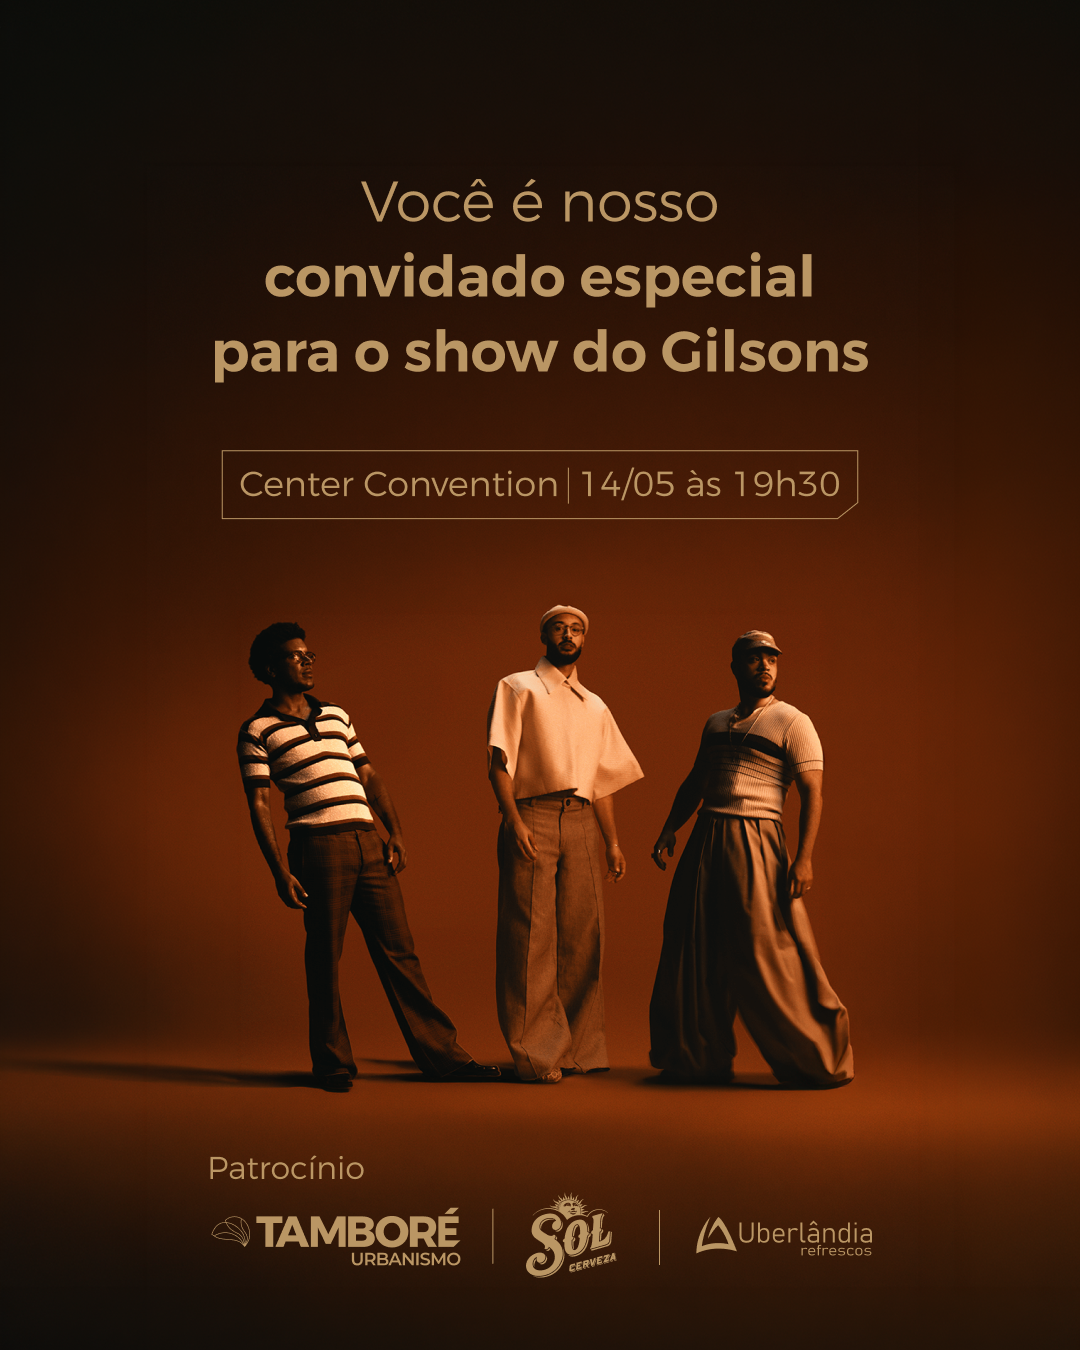
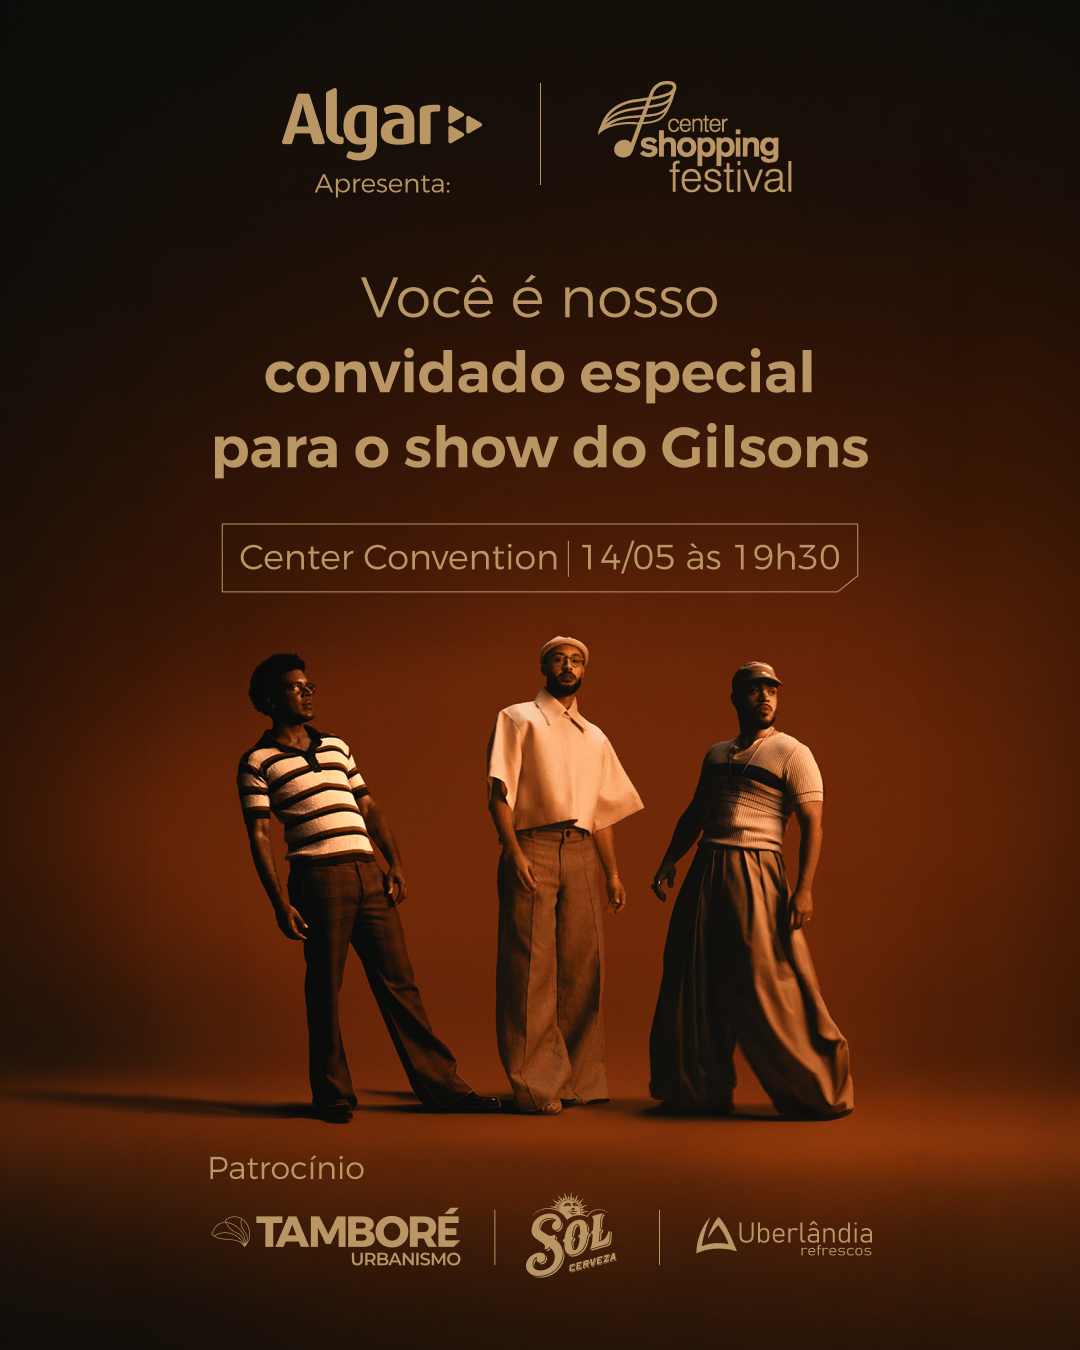
Add files via upload

Changed region(s): [[0.0, 0.4044, 1.0, 0.8711], [0.1833, 0.0622, 0.825, 0.4356]]

diff --git a/gilsons/index.html b/gilsons/index.html
@@ -22,7 +22,7 @@
             <body>
                 <div>
                     <p style="text-align: justify">
-                        <img src="https://karenolivra-source.github.io/maio.crm/gilsons/images/TAMBORE@GI.png" alt="TAMBORE@GI.png" height="auto">
+                        <img src="images/TAMBORE@GI.png" alt="TAMBORE@GI.png" height="auto">
                     </p>
                 </div>
             </body>
